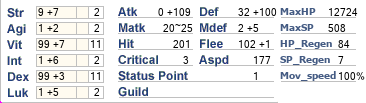
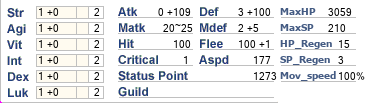
Fixed error when using shields and bows at the same time

diff --git a/ragnarok/model/equip_model.py b/ragnarok/model/equip_model.py
@@ -54,7 +54,7 @@ class BaseGear:
 
     def __str__(self):
         str_base = "[{}] → ".format(self.class_type)
-        if self.refining != 0:
+        if self.refining != 0 and self.refining is not None:
             str_base += "+{} ".format(self.refining)
         str_base += "{}".format(self.name)
         if self.slots != 0:
@@ -79,8 +79,12 @@ class BaseGear:
         return str_base
 
     def export_info(self) -> dict:
-        return {'id': self.id, 'refine': int(self.refining), 'card': self.card['Id'],
-                'name': self.name, 'defense': int(self.defense)}
+        if self.card:
+            return {'id': self.id, 'refine': int(self.refining), 'card': self.card['Id'],
+                    'name': self.name, 'defense': int(self.defense)}
+        else:
+            return {'id': self.id, 'refine': int(self.refining), 'card': "4700",
+                    'name': self.name, 'defense': int(self.defense)}
 
     def is_dead_gear(self):
         if self.id in nullgear:
@@ -209,6 +213,10 @@ class Weapon(BaseGear):
         super().__init__(gd)
         self.gear_type = "right_hand"
         self.class_type = "Weapon"
+        self.subtype = gd['SubType']
+        self.subtype_list = ("2hSword", "2hSpear", "2hAxe", "2hStaff", "Katar", "Huuma", "Bow", "Revolver",
+                             "Rifle", "Shotgun", "Gatling", "Grenade")
+        self.two_handed = self.subtype in self.subtype_list
 
     def remaining_slots(self):
         cardlist = []
@@ -323,8 +331,6 @@ class PlayerGear:
         if not equipable[0]:
             raise Exception("{}".format(equipable[1]))
 
-        if isinstance(item, Weapon):
-            self.weapon = item
         if isinstance(item, Shield):
             self.shield = item
         if isinstance(item, Shoes):
@@ -355,6 +361,10 @@ class PlayerGear:
                 self.headlow = item
                 self.headmid = item
                 self.headtop = item
+        if isinstance(item, Weapon):
+            self.weapon = item
+            if item.two_handed:
+                self.shield = Shield(equip_db[2139])
 
     def is_equipable(self, item: BaseGear):
         if item:
@@ -590,20 +600,26 @@ text_dict = {"headgear1": ("Valkyrie Feather Band [1]", "4", "Elder Willow Card"
              "robe": ("Muffler [1]", "7", "Raydric Card"),
              "accessory1": ("Glove [1]", 0, "Gargoyle Card"),
              'accessory2': ("Earring [1]", 0, "Zerom Card"),
-             'weapon': ("Spectral Spear", 0, "(No Card)", "(No Card)", "(No Card)", "(No Card)")}
+             'weapon': ("Gakkung Bow", 0, "(No Card)", "(No Card)", "(No Card)", "(No Card)")}
 
 # Muramash
 
 gear_dict = dict_name_to_dict_id(text_dict)
 
-pe = PlayerGear(gear_dict, 'knight', 99)
+pe = PlayerGear(gear_dict, 'hunter', 99)
 pe.print_gear()
 print('')
 
-ttk = pe.script_summary()
-for i in ttk:
-    print(i, ttk[i])
-print('')
+# print('oi')
+# print(pe.total_defense())
+#
+# headnames = pe.return_hat_dict_names()
+# print('headnames... {}'.format(headnames))
+
+# ttk = pe.script_summary()
+# for i in ttk:
+#     print(i, ttk[i])
+# print('')
 
 # for p in range(4001, 4500):
 #     if p in card_db:
@@ -616,7 +632,6 @@ print('')
 #             print('name = {}'.format(name))
 #             print('script: {}analysis: {}'.format(p_script, p_analysis))
 #             print('')
-
 
 
 # # pe.equip_item(pe.create_item_with_id(2104))

diff --git a/pyflask/app/models/forms.py b/pyflask/app/models/forms.py
@@ -162,10 +162,22 @@ def calc_dynamic_select(input_form):
     form.accessory1_card_list.choices = sorted(get_cardlist_by_name(form.accessory1_item.data))
     form.accessory2_card_list.choices = sorted(get_cardlist_by_name(form.accessory2_item.data))
 
+    weapon_template = [form.weapon_item.data, form.weapon_refine.data,
+                       "(No Card)", "(No Card)", "(No Card)", "(No Card)"]
+
+    if form.weapon_card_1:
+        weapon_template[2] = form.weapon_card_1.data
+    if form.weapon_card_2:
+        weapon_template[3] = form.weapon_card_2.data
+    if form.weapon_card_3:
+        weapon_template[4] = form.weapon_card_3.data
+    if form.weapon_card_4:
+        weapon_template[5] = form.weapon_card_4.data
+
     text_dict = {"headgear1": (form.headtop_item.data, form.headtop_refine.data, form.headtop_card_list.data),
                  "headgear2": (form.headmid_item.data, form.headmid_refine.data, form.headmid_card_list.data),
                  "headgear3": (form.headmid_item.data, form.headmid_refine.data, form.headmid_card_list.data),
-                 "weapon": None,
+                 "weapon": tuple(weapon_template),
                  "shield": (form.shield_item.data, form.shield_refine.data, form.shield_card_list.data),
                  "shoes": (form.shoes_item.data, form.shoes_refine.data, form.shoes_card_list.data),
                  "armor": (form.armor_item.data, form.armor_refine.data, form.armor_card_list.data),
@@ -175,12 +187,12 @@ def calc_dynamic_select(input_form):
 
     gear_dict = dict_name_to_dict_id(text_dict)
     pe = PlayerGear(gear_dict, form.class_name.data, form.job_level.data)
-    if '(No Headtop)' in form.headtop_item.data:
-        pe.unequip_noble_hats()
-        headnames = pe.return_hat_dict_names()
-        form.headtop_item.data = headnames['headtop']
-        form.headmid_item.data = headnames['headmid']
-        form.headlow_item.data = headnames['headlow']
+    # if '(No Headtop)' in form.headtop_item.data:
+    #     pe.unequip_noble_hats()
+    #     headnames = pe.return_hat_dict_names()
+    #     form.headtop_item.data = headnames['headtop']
+    #     form.headmid_item.data = headnames['headmid']
+    #     form.headlow_item.data = headnames['headlow']
 
     headnames = pe.return_hat_dict_names()
 
@@ -188,6 +200,10 @@ def calc_dynamic_select(input_form):
         form.headtop_item.data = headnames['headtop']
         form.headmid_item.data = headnames['headmid']
         form.headlow_item.data = headnames['headlow']
+
+    if pe.weapon:
+        if pe.weapon.two_handed:
+            form.shield_item.data = "(No Shield)"
 
     form.base_level.default = '57'
 

diff --git a/ragnarok/model/build_model.py b/ragnarok/model/build_model.py
@@ -138,6 +138,7 @@ class PlayerBuild:
         self.atk_bonus = 0
 
         # Defesa
+        # self.def_hard = 20
         self.def_hard = self.playergear.total_defense()
         self.def_soft = 100
 
